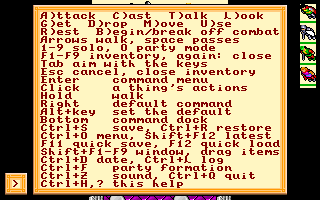
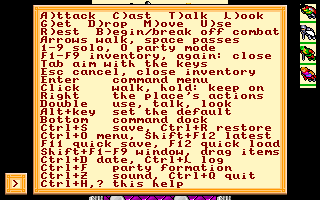
Mouse: left walks as the original, right opens the context menu, double click does Nuvie's multiuse/double_click_obj (look, talk, use, attack in combat, inventory); help and PORTING

Changed region(s): [[0.3438, 0.42, 0.8438, 0.54], [0.125, 0.45, 0.2812, 0.54]]

diff --git a/internal/game/ui.go b/internal/game/ui.go
@@ -2,6 +2,7 @@ package game
 
 import (
 	"image"
+	"slices"
 	"strings"
 
 	"github.com/memmaker/u6-go/internal/host"
@@ -31,9 +32,9 @@ var helpText = []string{
 	"Tab aim with the keys",
 	"Esc cancel, close inventory",
 	"Enter    command menu",
-	"Click    a thing's actions",
-	"Hold     walk",
-	"Right    default command",
+	"Click    walk, hold: keep on",
+	"Right    the place's actions",
+	"Double   use, talk, look",
 	"Alt+key  set the default",
 	"Bottom   command dock",
 	"Ctrl+S   save, Ctrl+R restore",
@@ -377,4 +378,53 @@ func (g *Game) dockTooltip() string {
 		return "Break off combat"
 	}
 	return "Begin combat"
+}
+
+// doubleClickTicks is how soon a second click makes a double click (Nuvie's
+// GUI::mouseclick_delay, 300 ms).
+const doubleClickTicks = host.TicksPerSecond * 3 / 10
+
+// secondClick waits for the button to go down again soon after a click: a double click.
+func (g *Game) secondClick() bool {
+	for range doubleClickTicks {
+		if host.MouseLeft {
+			return true
+		}
+		host.Yield()
+	}
+	return false
+}
+
+// readable things are looked at by a double click (U6UseCode::is_readable).
+var readable = []ObjectType{ObjSign, ObjBook, ObjNote, ObjPicture, ObjGargoyleSign, ObjTombstone, ObjCross,
+	ObjCodex, ObjBookOfCircles, ObjClock, ObjSundial}
+
+// doubleClick returns the command of a double click on the Selection, its target queued, as
+// Nuvie's Events::multiuse (the map) and ViewManager::double_click_obj (an inventory): it
+// looks at what can be read, attacks in combat, uses animals that can be used, talks to
+// people and shrines, opens the inventory of the one walked with, else uses the thing.
+func (g *Game) doubleClick() int {
+	obj := g.Selection.obj
+	if obj == noObject {
+		return 0
+	}
+	t := g.object(obj).Type()
+	onMap := g.object(obj).CoordUse() == OnMap
+	npc := obj < npcCount
+	cmd := cmdUse
+	switch {
+	case slices.Contains(readable, t):
+		cmd = cmdLook
+	case !onMap:
+	case obj == int(g.Party[g.Active]): // the new style's inventory
+		g.Selection.obj = int(g.Active)
+		return cmdStatusEquipment
+	case g.InCombat != 0 && (!npc || g.alignment(obj) != alignGood):
+		cmd = cmdAttack
+	case npc && (t == ObjCow || t == ObjHorse || t == ObjMountedHorse):
+	case npc, t == ObjShrine || t == ObjStatueOfMondain || t == ObjStatueOfMinax || t == ObjStatueOfExodus:
+		cmd = cmdTalk
+	}
+	g.repeatTarget = true
+	return cmd
 }

diff --git a/internal/game/mouse_test.go b/internal/game/mouse_test.go
@@ -125,3 +125,37 @@ func TestMissileAngleFar(t *testing.T) {
 		t.Error("far flights do not keep their direction")
 	}
 }
+
+// TestDoubleClick checks what a double click does, as Nuvie's multiuse and
+// double_click_obj: read, talk, use, the inventory, and attack in combat.
+func TestDoubleClick(t *testing.T) {
+	inGame(t, func(g *Game) {
+		p := g.object(int(g.Party[0])).Pos
+		g.InCombat = 0
+		on := func(obj int) int {
+			g.Selection.obj, g.repeatTarget = obj, false
+			return g.doubleClick()
+		}
+		book := g.AddMapObj(shapeOf(ObjBook, 0), 0, 0, p.X+1, p.Y, p.Z)
+		candle := g.AddMapObj(shapeOf(ObjCandle, 0), 0, 1, p.X, p.Y+1, p.Z)
+		held := g.AddInvObj(shapeOf(ObjBook, 0), StatusLocal|InInventory, 0, int(g.Party[0]))
+		for _, c := range []struct {
+			name     string
+			obj, cmd int
+		}{
+			{"book", book, cmdLook}, {"candle", candle, cmdUse}, {"held book", held, cmdLook},
+			{"a member", int(g.Party[1]), cmdTalk}, {"the avatar", int(g.Party[0]), cmdStatusEquipment},
+		} {
+			if got := on(c.obj); got != c.cmd {
+				t.Errorf("%s: command %d, want %d", c.name, got, c.cmd)
+			}
+		}
+		g.InCombat = 1
+		if got := on(candle); got != cmdAttack {
+			t.Errorf("candle in combat: command %d, want Attack", got)
+		}
+		if got := on(int(g.Party[1])); got != cmdTalk {
+			t.Errorf("a member in combat: command %d, want Talk", got)
+		}
+	})
+}

diff --git a/internal/game/input.go b/internal/game/input.go
@@ -318,22 +318,17 @@ func (g *Game) mouseCommand() int {
 			}
 			break
 		}
-		if g.DefaultCommand != noDefaultCommand && g.mouseButtons&rightButton != 0 {
+		if g.mouseButtons&rightButton != 0 {
+			// the port: the right button opens the menu of the place clicked
 			if g.mouseTriggered {
-				cmd = cmdDefault
 				g.mouseSelection()
+				if cmd = g.contextMenu(image.Pt(host.MouseX, host.MouseY)); cmd == 0 {
+					cmd = cmdSpellNothing
+				}
 			}
 			break
 		}
 		dir := g.mouseDirection()
-		if g.mouseTriggered && dir != -1 && g.mouseButtons&leftButton != 0 && g.mouseSelection() == cmdSelectMap {
-			// the port: a click on a thing opens its menu
-			cmd = g.contextMenu(image.Pt(host.MouseX, host.MouseY))
-			if cmd == 0 {
-				cmd = cmdSpellNothing
-			}
-			break
-		}
 		if dir == -1 {
 			if g.mouseTriggered {
 				cmd = cmdPass
@@ -607,6 +602,10 @@ func (g *Game) readCommand() int {
 				ch, dragged = g.closePointedGump(), true
 			} else if atPrompt {
 				ch, dragged = g.drag()
+				// a click on a thing waits for a second one, as Nuvie's MouseDelayed
+				if !dragged && g.mouseSelection() != 0 && g.Selection.obj != noObject && g.Selection.obj != g.container && g.secondClick() {
+					ch, dragged = g.doubleClick(), true
+				}
 			}
 			if !dragged {
 				ch = g.mouseCommand()

diff --git a/internal/game/talk_test.go b/internal/game/talk_test.go
@@ -284,7 +284,7 @@ func compareClassicTiles(t *testing.T, g *Game) {
 }
 
 // writeUIPNGs drives the port's overlays and writes them for docs/ui: the help, the Enter
-// menu, a click's context menu on Tholden, the toasts of a Look and a dock tooltip.
+// menu, a right click's context menu on Tholden, the toasts of a Look and a dock tooltip.
 func writeUIPNGs(t *testing.T, g *Game, steps func(int), settle int) {
 	enter := host.Key{Scan: host.ScanEnter, Char: keyEnter}
 	host.PushChar('?')
@@ -300,12 +300,12 @@ func writeUIPNGs(t *testing.T, g *Game, steps func(int), settle int) {
 	if g.popup != nil {
 		t.Fatal("Esc left the menu open")
 	}
-	// click Tholden, right of the party
+	// right click Tholden, right of the party
 	centreX, centreY := g.mapCentre()
 	host.MouseX, host.MouseY = centreX+tileSize-g.viewPixels().Min.X, centreY-g.viewPixels().Min.Y
-	host.MouseLeft = true
+	host.MouseRight = true
 	steps(settle)
-	host.MouseLeft = false
+	host.MouseRight = false
 	steps(settle)
 	if g.popup == nil {
 		t.Fatal("no context menu on Tholden")

diff --git a/internal/game/game_test.go b/internal/game/game_test.go
@@ -230,6 +230,23 @@ func testGetAndUse(t *testing.T, g *Game, press func(...host.Key), snap func(str
 		}
 		g.DeleteObj(candle)
 	}
+	// a double click uses a candle (out of combat: in it, it attacks)
+	g.InCombat = 0
+	candle := g.AddMapObj(shapeOf(ObjCandle, 0), 0, 1, p.X, p.Y+1, p.Z)
+	g.refreshArea()
+	host.MouseX = (p.X-int(g.MapX)+g.viewCenterX)*tileSize + 4 - g.viewPixels().Min.X
+	host.MouseY = (p.Y+1-int(g.MapY)+g.viewCenterY)*tileSize + 4 - g.viewPixels().Min.Y
+	for _, down := range []bool{true, false, true, false} {
+		host.MouseLeft = down
+		for range doubleClickTicks / 4 {
+			host.Step()
+		}
+	}
+	press()
+	if g.object(candle).Frame() == 0 {
+		t.Errorf("double click: the candle is not lit:\n%s", scrollText(g))
+	}
+	g.DeleteObj(candle)
 }
 
 // testFight puts a hostile rat near the party and attacks it until it dies.

diff --git a/PORTING.md b/PORTING.md
@@ -53,6 +53,16 @@ The world view fills the screen; the panels are layered over it as scrolls
 - Shift+F1..F9 opens or closes a party member's inventory window; several can be open and
   each moves by dragging its name row (`internal/game/windows.go`, `docs/ui/windows.png`).
   A click in a window turns the status area to that member first.
+- Mouse buttons: the left button walks toward the pointer as the original's did; the right
+  button opens the menu of the place clicked (Look, Talk, Get, Use, Attack, Move, Walk here;
+  the original's right click ran the default command, which the dock and Alt+key still
+  set for keys). A double click (within 300 ms, Nuvie's delay; a click on a thing waits that
+  long before it walks) does what Nuvie's does (`Events::multiuse`,
+  `ViewManager::double_click_obj`): books, signs, pictures, clocks and the like are looked
+  at, things are attacked in combat (but not the party's friends), cows and horses used,
+  people, shrines and the three statues talked to, the one walked with opens the
+  inventory, anything else is used; in an inventory a double click looks at readables and
+  uses the rest (`doubleClick` in `internal/game/ui.go`).
 - Things are dragged with the mouse, each drag running the command that does the same:
   map → an inventory is Get (by the active member), inventory → map is Drop (the active
   member's things), onto another member's window is Move, onto a container in the grid is
